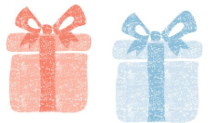
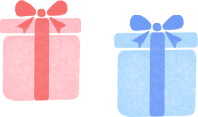
feat: 特典から探す際の画像差し替え

diff --git a/minden/lib/features/power_plant/presentation/pages/power_plant_search_by_gift_page.dart b/minden/lib/features/power_plant/presentation/pages/power_plant_search_by_gift_page.dart
@@ -76,15 +76,14 @@ class _PowerPlantSearchByGiftState extends State<PowerPlantSearchByGift> {
             color: const Color(0xFFFAF9F8),
             child: Column(
               children: [
-                const SizedBox(height: 12),
-                // TODO 画像差し替え
+                const SizedBox(height: 20),
                 Image.asset(
-                  'assets/images/profile_setting/hukidasi_illust.png',
+                  'assets/images/power_plant/present_box_header.png',
                   fit: BoxFit.contain,
-                  width: 213,
-                  height: 65,
+                  width: 253,
+                  height: 48,
                 ),
-                const SizedBox(height: 10),
+                const SizedBox(height: 24),
                 Padding(
                   padding: const EdgeInsets.symmetric(horizontal: 40),
                   child: Text(

diff --git a/minden/lib/features/power_plant/presentation/pages/power_plant_search_menu.dart b/minden/lib/features/power_plant/presentation/pages/power_plant_search_menu.dart
@@ -57,11 +57,11 @@ class _PowerPlantSearchMenuState extends State<PowerPlantSearchMenu> {
             'power_plant_search_menu_by_gift_title',
             'power_plant_search_menu_by_gift_description',
             Padding(
-              padding: const EdgeInsets.only(top: 8, right: 11),
+              padding: const EdgeInsets.only(top: 9, right: 19),
               child: Image.asset(
                 'assets/images/power_plant/present_box.png',
-                width: 72,
-                height: 41,
+                width: 66,
+                height: 39,
               ),
             ),
             () {
